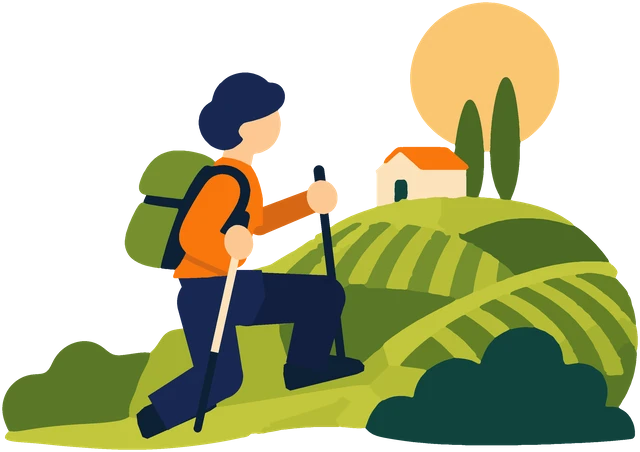
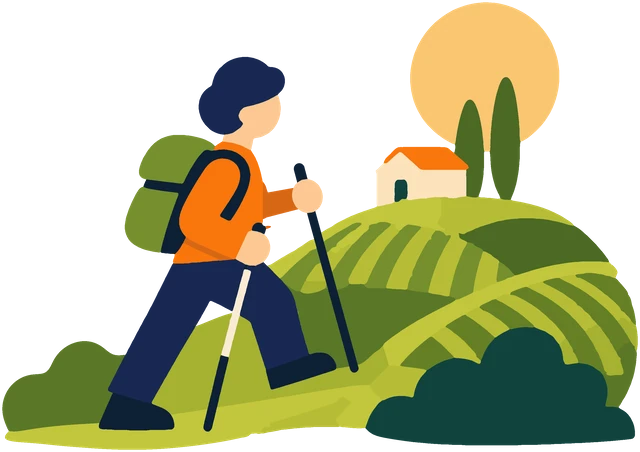
Escursionista fermo nella posa del disegno: alza la mano a visiera e guarda lontano
Claude-Session: https://claude.ai/code/session_01514XnEGZsjyPA5MKydjykv

Changed region(s): [[0.1562, 0.1239, 0.5938, 0.9912]]

diff --git a/index.html b/index.html
@@ -370,7 +370,7 @@
           </div>
           <div class="passi__scena" aria-hidden="true">
           <div class="passi__omino passi__omino--panchina"><picture><source srcset="img/anima-panchina-fermo.webp?v=2026112410" media="(prefers-reduced-motion: reduce)"><img src="img/anima-panchina.webp?v=2026112410" alt="" width="640" height="473" loading="lazy" decoding="async"></picture></div>
-          <div class="passi__omino passi__omino--cammina"><picture><source srcset="img/anima-cammina-fermo.webp?v=2026112410" media="(prefers-reduced-motion: reduce)"><img src="img/anima-cammina.webp?v=2026112410" alt="" width="640" height="452" loading="lazy" decoding="async"></picture></div>
+          <div class="passi__omino passi__omino--cammina"><picture><source srcset="img/anima-cammina-fermo.webp?v=2026112411" media="(prefers-reduced-motion: reduce)"><img src="img/anima-cammina.webp?v=2026112411" alt="" width="640" height="452" loading="lazy" decoding="async"></picture></div>
           <div class="passi__omino passi__omino--canoa"><picture><source srcset="img/anima-canoa-fermo.webp" media="(prefers-reduced-motion: reduce)"><img src="img/anima-canoa.webp" alt="" width="640" height="272" loading="lazy" decoding="async"></picture></div>
           <div class="passi__omino passi__omino--bici"><picture><source srcset="img/anima-bici-fermo.webp" media="(prefers-reduced-motion: reduce)"><img src="img/anima-bici.webp" alt="" width="608" height="640" loading="lazy" decoding="async"></picture></div>
           <div class="passi__omino passi__omino--barca"><picture><source srcset="img/anima-barca-fermo.webp" media="(prefers-reduced-motion: reduce)"><img src="img/anima-barca.webp" alt="" width="640" height="266" loading="lazy" decoding="async"></picture></div>

diff --git a/sorgenti/cammina/immobile.py b/sorgenti/cammina/immobile.py
@@ -1,0 +1,111 @@
+# Escursionista fermo nella posa del riferimento: si muove solo la mano destra,
+# che lascia il bastoncino e va alla fronte "a visiera", come chi guarda lontano.
+# uso: python3 immobile.py seg.npz fondo.npy cartella_uscita
+import sys, math, os
+import numpy as np
+from PIL import Image, ImageDraw
+from scipy import ndimage
+
+SEG, FONDO, OUTD = sys.argv[1:4]
+d = np.load(SEG); C, lab, fig = d['C'], d['lab'], d['fig']
+H, W = lab.shape
+S = 2
+pal = np.vstack([np.clip(C, 0, 255), [[0, 0, 0]]]).astype(np.uint8)
+def col(rgb): return tuple(int(v) for v in C[int(((C - np.array(rgb)) ** 2).sum(1).argmin())])
+NAVY = col((13, 32, 53)); MANICA_L = col((214, 103, 20)); PELLE = col((252, 200, 147))
+
+fa = np.load(FONDO)
+fondo = np.zeros(fa.shape + (4,), np.uint8); m = fa >= 0
+fondo[m, :3] = pal[fa[m]]; fondo[m, 3] = 255
+fondo = Image.fromarray(fondo)
+
+# figura ferma: tutto tranne avambraccio destro, mano destra e il suo bastoncino
+yy, xx = np.mgrid[:H, :W]
+def seg_dist(a, b):
+    a = np.array(a, float); b = np.array(b, float); dd = b - a
+    t = np.clip(((xx - a[0]) * dd[0] + (yy - a[1]) * dd[1]) / (dd @ dd), 0, 1)
+    return np.hypot(xx - a[0] - t * dd[0], yy - a[1] - t * dd[1])
+POLO_A, POLO_B = (742, 395), (862, 830)
+polo_f = seg_dist(POLO_A, POLO_B) < 15
+mano_f = ((xx - 760) / 46) ** 2 + ((yy - 455) / 44) ** 2 < 1
+avam_f = (xx > 662) & (yy > 415) & (yy < 520)
+ferma = fig & (lab >= 0) & ~polo_f & ~mano_f & ~avam_f
+cc, n = ndimage.label(ferma)
+sz = ndimage.sum(ferma, cc, range(1, n + 1))
+ferma = np.isin(cc, 1 + np.where(sz > 400)[0])
+lb = lab.copy(); lb[~ferma] = -1
+best = np.full((H * S, W * S), -1e9, np.float32); arg = np.full((H * S, W * S), -1, np.int16)
+for c in range(-1, len(C)):
+    mm = lb == c
+    if not mm.any(): continue
+    g = ndimage.zoom(ndimage.gaussian_filter(mm.astype(np.float32), 2.2), S, order=1)
+    u = g > best; best[u] = g[u]; arg[u] = c
+fi = np.zeros((H * S, W * S, 4), np.uint8); mb = arg >= 0
+fi[mb, :3] = pal[arg[mb]]; fi[mb, 3] = 255
+figura = Image.fromarray(fi)
+
+def P(pts): return [(x * S, y * S) for x, y in pts]
+def rot(v, a): c, s = math.cos(a), math.sin(a); return (v[0] * c - v[1] * s, v[0] * s + v[1] * c)
+def add(a, b): return (a[0] + b[0], a[1] + b[1])
+def lerp(a, b, t): return (a[0] + (b[0] - a[0]) * t, a[1] + (b[1] - a[1]) * t)
+def smooth(t): t = min(max(t, 0), 1); return t * t * (3 - 2 * t)
+def capsula(dr, a, b, w0, w1, fill):
+    ang = math.atan2(b[1] - a[1], b[0] - a[0]); nn = (-math.sin(ang), math.cos(ang))
+    pts = [(a[0] + nn[0] * w0 / 2, a[1] + nn[1] * w0 / 2), (b[0] + nn[0] * w1 / 2, b[1] + nn[1] * w1 / 2),
+           (b[0] - nn[0] * w1 / 2, b[1] - nn[1] * w1 / 2), (a[0] - nn[0] * w0 / 2, a[1] - nn[1] * w0 / 2)]
+    dr.polygon(P(pts), fill=fill)
+    for c, w in ((a, w0), (b, w1)):
+        dr.ellipse([((c[0] - w / 2) * S, (c[1] - w / 2) * S), ((c[0] + w / 2) * S, (c[1] + w / 2) * S)], fill=fill)
+def ellisse(dr, c, rx, ry, ang, fill, n=56):
+    dr.polygon(P([add(c, rot((rx * math.cos(2 * math.pi * i / n), ry * math.sin(2 * math.pi * i / n)), ang)) for i in range(n)]), fill=fill)
+
+# pose: mano sul bastoncino -> mano alla fronte
+EL0, MA0 = (655, 478), (760, 455)
+EL1, MA1 = (772, 392), (708, 250)
+SPALLA = (640, 445)
+def posa(k):
+    # k: 0 = sul bastoncino, 1 = a visiera
+    e = smooth(k)
+    el = lerp(EL0, EL1, e)
+    ma = lerp(MA0, MA1, e)
+    ma = (ma[0] + 28 * math.sin(math.pi * e), ma[1])          # arco: esce in avanti e sale
+    rx, ry = 33 + 9 * e, 37 - 21 * e
+    ang = math.radians(-15 + 3 * e)
+    return el, ma, rx, ry, ang
+
+N = 72                      # 3 secondi: ferma, alza, guarda lontano, riabbassa
+def k_di(i):
+    t = i / N
+    if t < .12: return 0
+    if t < .30: return (t - .12) / .18
+    if t < .80: return 1
+    if t < .96: return 1 - (t - .80) / .16
+    return 0
+
+def fotogramma(i):
+    k = k_di(i)
+    el, ma, rx, ry, ang = posa(k)
+    if .30 <= i / N < .80:   # mentre guarda, la mano si sposta appena (scruta l'orizzonte)
+        ma = (ma[0] + 3 * math.sin(2 * math.pi * (i / N - .30) / .5), ma[1] - 2 * math.sin(4 * math.pi * (i / N - .30) / .5))
+    img = fondo.copy()
+    lay = Image.new('RGBA', img.size, (0, 0, 0, 0)); dr = ImageDraw.Draw(lay)
+    # bastoncino piantato (resta in piedi)
+    capsula(dr, POLO_A, POLO_B, 18, 18, NAVY)
+    capsula(dr, POLO_A, add(POLO_A, (12, 45)), 23, 23, NAVY)
+    capsula(dr, SPALLA, el, 62, 56, MANICA_L)
+    capsula(dr, el, ma, 54, 46, MANICA_L)
+    if k < .5: ellisse(dr, ma, rx, ry, ang, PELLE)
+    img.alpha_composite(lay)
+    img.alpha_composite(figura)
+    if k >= .5:              # vicino al viso la mano passa davanti alla fronte
+        lay = Image.new('RGBA', img.size, (0, 0, 0, 0)); dr = ImageDraw.Draw(lay)
+        capsula(dr, lerp(el, ma, .35), ma, 50, 44, MANICA_L)
+        ellisse(dr, ma, rx, ry, ang, PELLE)
+        img.alpha_composite(lay)
+    return img
+
+os.makedirs(OUTD, exist_ok=True)
+sel = os.environ.get('SEL')
+for i in ([int(x) for x in sel.split(',')] if sel else range(N)):
+    fotogramma(i).save(f'{OUTD}/f{i:03d}.png')
+print('ok')

diff --git a/sorgenti/cammina/assembla.py b/sorgenti/cammina/assembla.py
@@ -2,7 +2,8 @@
 import sys, numpy as np
 from PIL import Image
 D, OUT, FERMO = sys.argv[1:4]
-fr = [Image.open(f'{D}/f{i:03d}.png') for i in range(48)]
+import glob
+fr = [Image.open(p) for p in sorted(glob.glob(f'{D}/f*.png'))]
 bb = None
 for f in fr:
     b = f.getchannel('A').point(lambda v: 255 if v > 8 else 0).getbbox()
